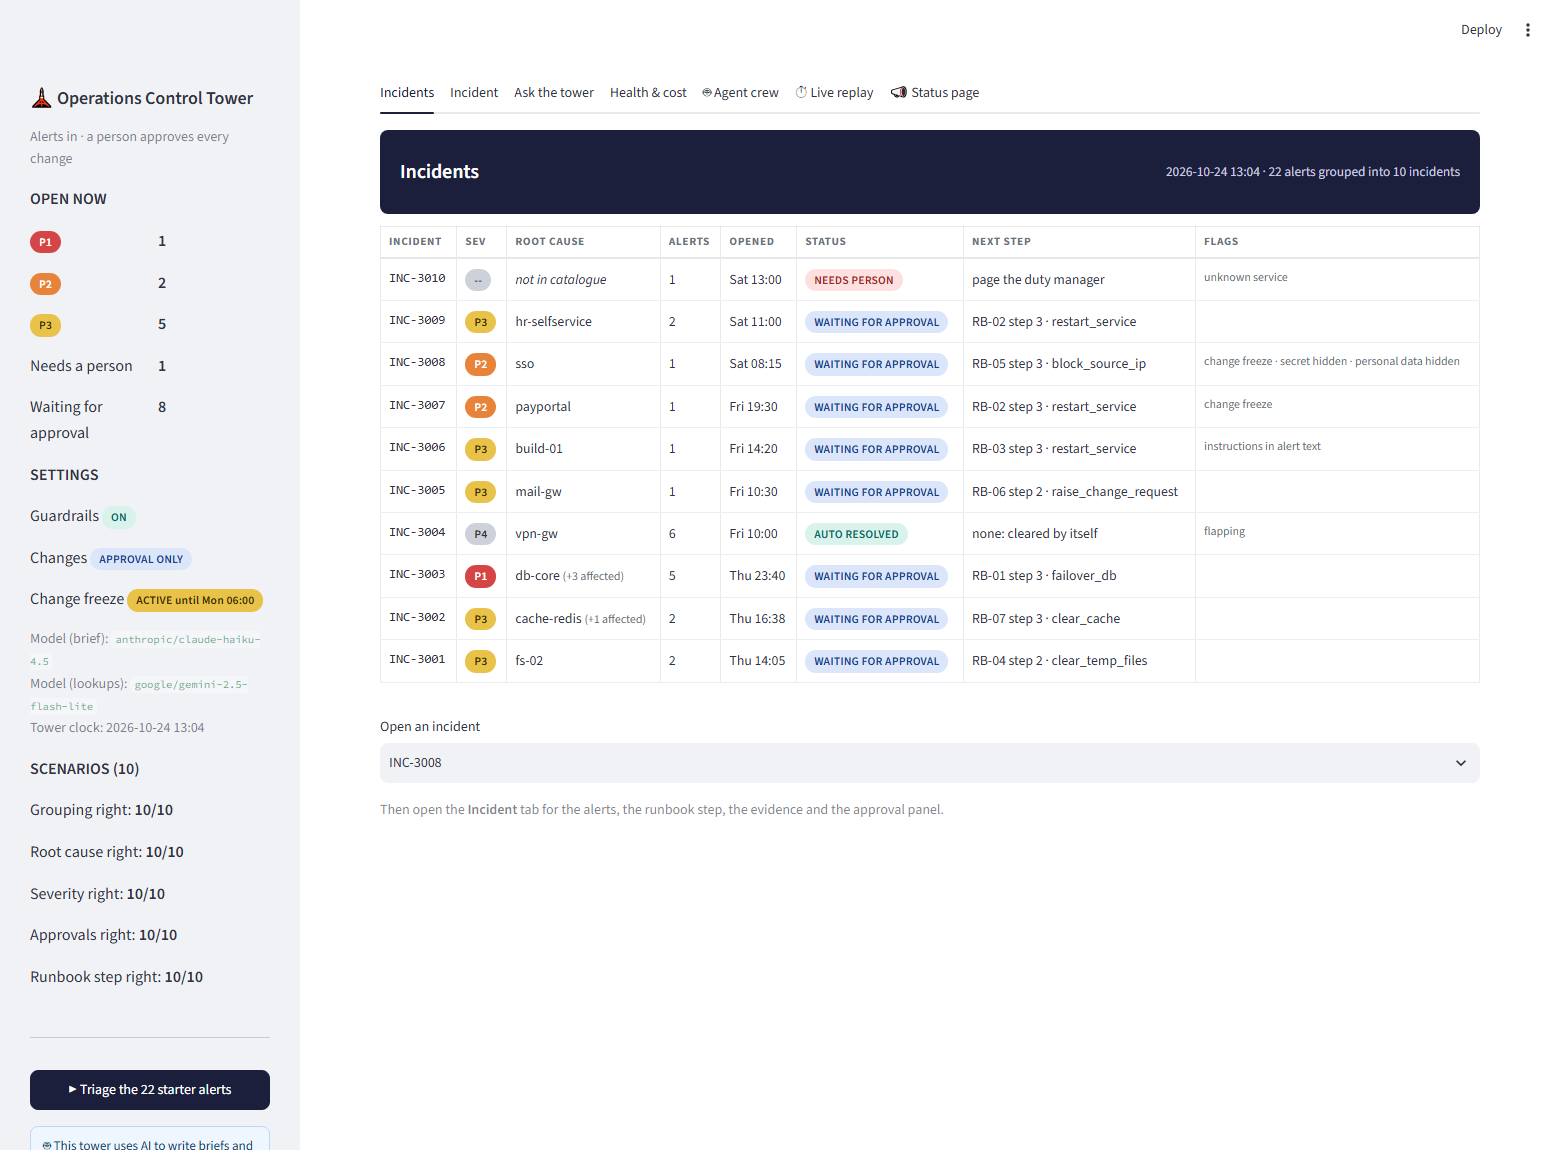
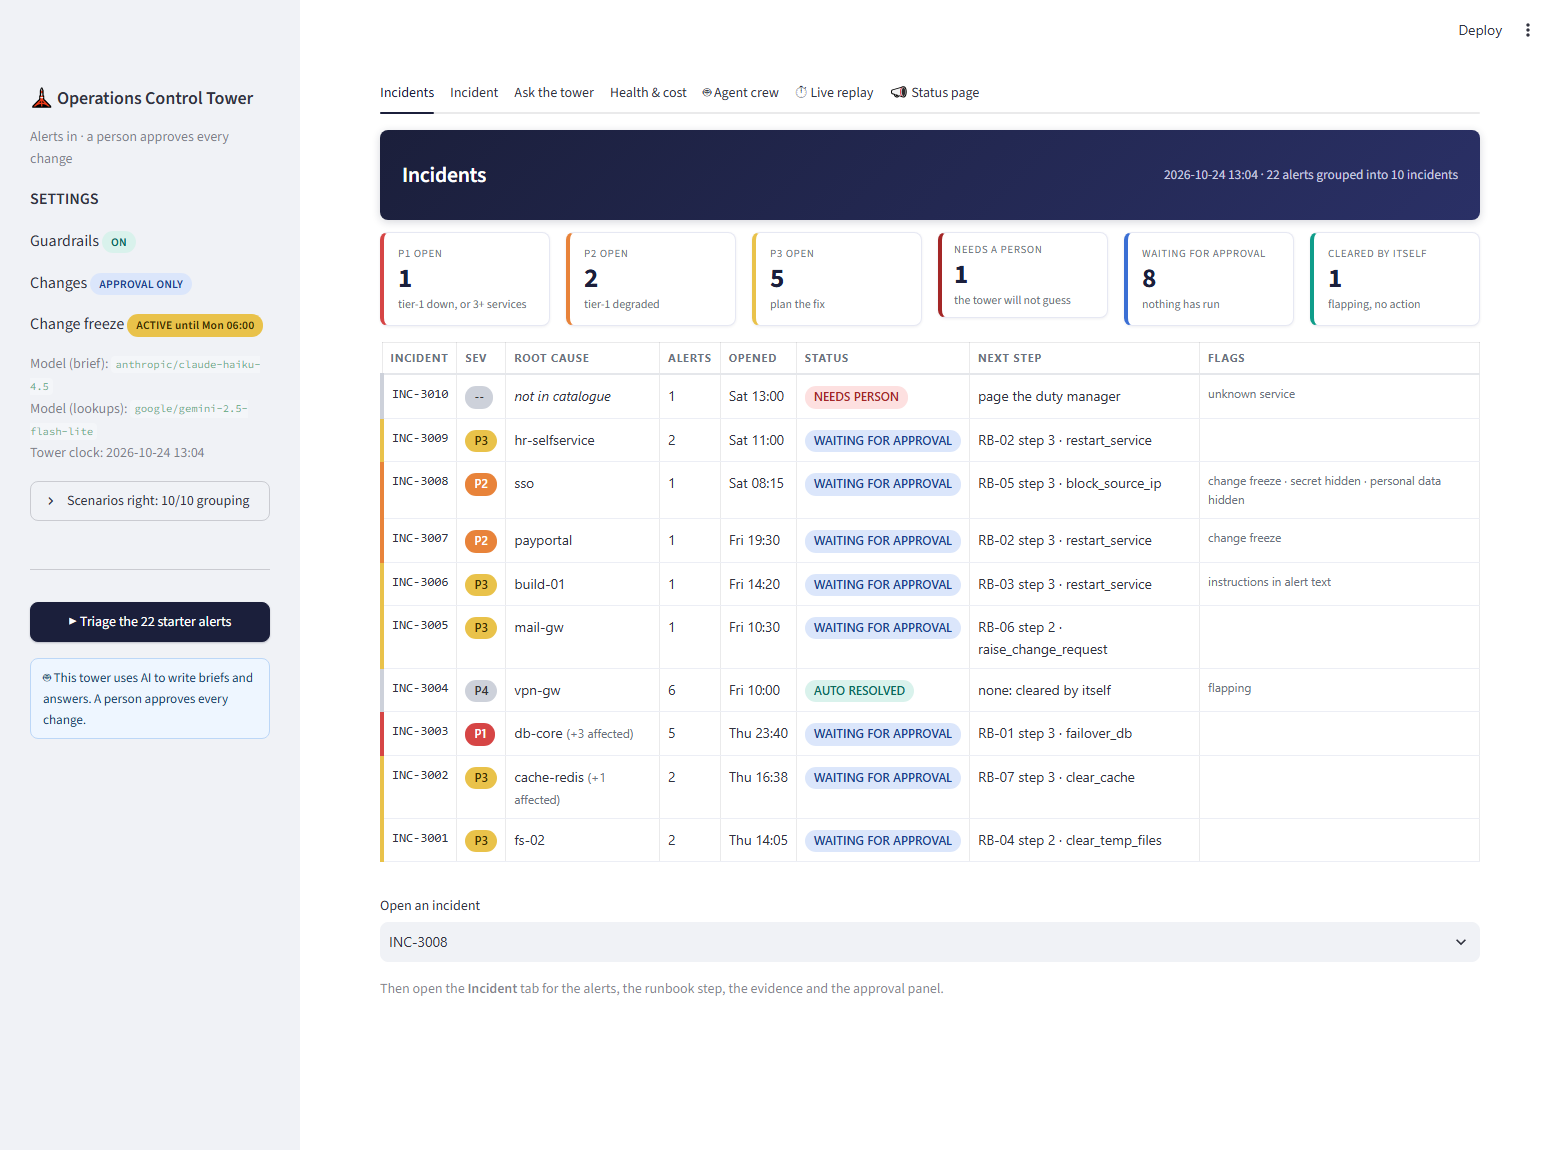
Design pass: KPI strip, incident progress stepper, approval cards, compact evidence, crew summary, replay progress
Same behaviour, clearer screen. Retaken screenshots; e2e selector made exact.

diff --git a/ui/app.py b/ui/app.py
@@ -46,6 +46,33 @@ table.inc td { padding:9px 8px; border-bottom:1px solid #eceef5; vertical-align:
 .warn { background:#fff4e0; border:1px solid #f1c27d; border-radius:8px; padding:8px 12px; font-size:.82rem; color:#6b4300; }
 .mono { font-family: ui-monospace, Menlo, Consolas, monospace; font-size:.8rem; }
 .status-card { border-radius:10px; padding:14px 18px; margin:10px 0; border:1px solid #e3e5f0; } .lv-outage { background:#fdeaea; border-color:#f0b4b4; } .lv-degraded { background:#fff4e0; border-color:#f1c27d; } .lv-resolved { background:#e4f6f1; border-color:#9fd8c9; }
+/* ---- refinement ---- */
+html, body, .stMarkdown, .stButton button, .stSelectbox, .stTextInput, table.inc { font-family: Inter, "Segoe UI", system-ui, -apple-system, sans-serif; }
+[data-testid="stIconMaterial"] { font-family: "Material Symbols Rounded", "Material Icons" !important; }
+.band h2 { flex: 1 1 0; min-width: 0; overflow: hidden; text-overflow: ellipsis; white-space: nowrap; } .band small { flex: none; white-space: nowrap; margin-left: 16px; }
+table.inc td:nth-child(5) { white-space: nowrap; }
+.band { background: linear-gradient(135deg, #1b1f3b 0%, #2a3066 100%); box-shadow: 0 2px 8px rgba(27,31,59,.18); padding: 16px 22px; }
+.band h2 { font-size: 1.35rem; letter-spacing: -.01em; }
+.card, .tile { box-shadow: 0 1px 3px rgba(27,31,59,.07); }
+.tile { border: 1px solid #e6e8f3; background: #fff; border-left: 4px solid var(--navy); }
+.tile.p1 { border-left-color: #d64545; } .tile.p2 { border-left-color: #e8833a; } .tile.p3 { border-left-color: #e9c24a; }
+.tile.ok { border-left-color: var(--teal); } .tile.wait { border-left-color: var(--blue); } .tile.warn { border-left-color: #a42626; }
+table.inc tr:hover td { background:#f6f7fd; } table.inc td:first-child { border-left: 4px solid transparent; }
+table.inc tr.sev-row-P1 td:first-child { border-left-color:#d64545; } table.inc tr.sev-row-P2 td:first-child { border-left-color:#e8833a; }
+table.inc tr.sev-row-P3 td:first-child { border-left-color:#e9c24a; } table.inc tr.sev-row-P4 td:first-child { border-left-color:#cdd1da; }
+.stepper { display:flex; gap:0; margin: 4px 0 12px 0; } .stepper .s { flex:1; text-align:center; position:relative; font-size:.72rem; color:var(--grey); }
+.stepper .s .dot { width:22px; height:22px; border-radius:50%; background:#e5e7eb; color:#fff; display:flex; align-items:center; justify-content:center; margin:0 auto 4px; font-size:.7rem; font-weight:700; position:relative; z-index:1; }
+.stepper .s::before { content:""; position:absolute; top:11px; left:-50%; width:100%; height:3px; background:#e5e7eb; z-index:0; } .stepper .s:first-child::before { display:none; }
+.stepper .s.done .dot { background:var(--teal); } .stepper .s.done::before { background:var(--teal); }
+.stepper .s.now .dot { background:var(--navy); box-shadow:0 0 0 4px rgba(27,31,59,.15); } .stepper .s.now { color:var(--navy); font-weight:700; }
+.stepper .s.now::before { background:var(--teal); } .stepper .s.stop .dot { background:var(--red); } .stepper .s.stop { color:var(--red); font-weight:700; }
+.who { display:flex; align-items:center; gap:10px; padding:8px 0; border-bottom:1px solid #eef0f7; } .who:last-of-type { border-bottom:none; }
+.who .txt { flex:1; line-height:1.25; }
+.avatar { width:34px; height:34px; border-radius:50%; background:#e6e8f5; color:#2b3170; display:flex; align-items:center; justify-content:center; font-weight:700; font-size:.78rem; flex:none; }
+.avatar.dm { background:#fdebc8; color:#7a4b00; } .avatar.ok { background:#c8efe6; color:#075a4c; }
+.evid div { font-size:.78rem; padding:3px 0; border-bottom:1px dashed #eceef5; line-height:1.35; } .evid b { color: var(--navy); font-family: ui-monospace, Menlo, Consolas, monospace; }
+.sumrow { margin: 6px 0 10px 0; } .sumrow .chip { margin-right: 6px; }
+button[kind="primary"] { box-shadow: 0 1px 2px rgba(27,31,59,.25); }
 </style>
 """
 st.markdown(CSS, unsafe_allow_html=True)
@@ -126,16 +153,6 @@ with st.sidebar:
     st.markdown("### 🗼 Operations Control Tower")
     st.caption("Alerts in · a person approves every change")
     open_ = [i for i in incidents if i["status"] in ("WAITING_FOR_APPROVAL", "NEEDS_PERSON")]
-    st.markdown("**OPEN NOW**")
-    c = st.columns(2)
-    for sev in ("P1", "P2", "P3"):
-        n = sum(1 for i in open_ if i["severity"] == sev)
-        c[0].markdown(sev_chip(sev), unsafe_allow_html=True)
-        c[1].markdown(f"**{n}**")
-    c[0].write("Needs a person")
-    c[1].markdown(f"**{sum(1 for i in open_ if i['status'] == 'NEEDS_PERSON')}**")
-    c[0].write("Waiting for approval")
-    c[1].markdown(f"**{sum(1 for i in open_ if i['status'] == 'WAITING_FOR_APPROVAL')}**")
     st.markdown("**SETTINGS**")
     st.markdown(f"Guardrails {chip('ON' if settings.get('guardrails') else 'OFF', 'st-AUTO_RESOLVED' if settings.get('guardrails') else 'st-NEEDS_PERSON')}", unsafe_allow_html=True)
     st.markdown(f"Changes {chip('APPROVAL ONLY' if settings.get('approvals_enforced') else 'UNSAFE', 'st-WAITING_FOR_APPROVAL' if settings.get('approvals_enforced') else 'st-NEEDS_PERSON')}", unsafe_allow_html=True)
@@ -143,10 +160,10 @@ with st.sidebar:
     st.caption(f"Model (brief): `{settings.get('llm_model', '?')}`  \nModel (lookups): `{settings.get('small_model', '?')}`  \nTower clock: {settings.get('clock', '?')}")
     sc = (get("/scenarios/score") or {}).get("summary")
     if sc:
-        st.markdown("**SCENARIOS (10)**")
-        for label, key in (("Grouping right", "grouping"), ("Root cause right", "root_cause"), ("Severity right", "severity"),
-                           ("Approvals right", "approvals"), ("Runbook step right", "runbook_step")):
-            st.markdown(f"{label}: **{sc[key]}/10**")
+        with st.expander(f"Scenarios right: {sc['grouping']}/10 grouping", expanded=False):
+            for label, key in (("Grouping", "grouping"), ("Root cause", "root_cause"), ("Severity", "severity"),
+                               ("Approvals", "approvals"), ("Runbook step", "runbook_step")):
+                st.markdown(f"{label}: **{sc[key]}/10**")
     st.divider()
     if st.button("▶ Triage the 22 starter alerts", use_container_width=True, type="primary"):
         with st.spinner("Rules group the alerts, then the crew briefs each incident…"):
@@ -163,13 +180,22 @@ with tabs[0]:
     if not incidents:
         st.info("No incidents yet. Press **Triage the 22 starter alerts** in the sidebar.")
     else:
+        def count(**kw):
+            return sum(1 for i in open_ if all(i.get(k) == v for k, v in kw.items()))
+        kpis = [("P1 open", count(severity="P1"), "p1", "tier-1 down, or 3+ services"), ("P2 open", count(severity="P2"), "p2", "tier-1 degraded"),
+                ("P3 open", count(severity="P3"), "p3", "plan the fix"), ("Needs a person", count(status="NEEDS_PERSON"), "warn", "the tower will not guess"),
+                ("Waiting for approval", count(status="WAITING_FOR_APPROVAL"), "wait", "nothing has run"),
+                ("Cleared by itself", sum(1 for i in incidents if i["status"] == "AUTO_RESOLVED"), "ok", "flapping, no action")]
+        for col, (lbl, val, cls, sub) in zip(st.columns(len(kpis)), kpis):
+            col.markdown(f"<div class='tile {cls}'><div class='lbl'>{lbl}</div><div class='val'>{val}</div><div class='sub'>{sub}</div></div>", unsafe_allow_html=True)
+        st.write("")
         rows = []
         for i in sorted(incidents, key=lambda x: x["incident_id"], reverse=True):
             rc = i["root_cause"] or '<i>not in catalogue</i>'
             if i.get("root_cause") and i["services"] and len(i["services"]) > 1:
                 rc += f' <span class="meta">(+{len(i["services"]) - 1} affected)</span>'
             flags = " · ".join(html.escape(f) for f in i["flags"])
-            rows.append(f"<tr><td class='mono'>{i['incident_id']}</td><td>{sev_chip(i['severity'])}</td><td>{rc}</td><td>{len(i['alert_ids'])}</td>"
+            rows.append(f"<tr class='sev-row-{i['severity'] or 'P4'}'><td class='mono'>{i['incident_id']}</td><td>{sev_chip(i['severity'])}</td><td>{rc}</td><td>{len(i['alert_ids'])}</td>"
                         f"<td>{when(i['opened'])}</td><td>{status_chip(i['status'])}</td><td>{html.escape(next_step(i))}</td><td class='meta'>{flags}</td></tr>")
         st.markdown("<table class='inc'><tr><th>INCIDENT</th><th>SEV</th><th>ROOT CAUSE</th><th>ALERTS</th><th>OPENED</th><th>STATUS</th><th>NEXT STEP</th><th>FLAGS</th></tr>"
                     + "".join(rows) + "</table>", unsafe_allow_html=True)
@@ -186,7 +212,25 @@ with tabs[1]:
         st.info("Pick an incident in the Incidents tab.")
     else:
         title = (re.split(r"(?<=[.!?])\s", inc["brief"]["summary"].strip())[0] if inc.get("brief") else f"{inc['root_cause'] or 'Unknown service'}")
-        band(f"{inc['incident_id']} · {html.escape(title[:90])}", f"opened {when(inc['opened'])} · {len(inc['alert_ids'])} alert(s)")
+        title = title if len(title) <= 62 else title[:60].rstrip(" ,.;:") + "…"
+        band(f"{inc['incident_id']} · {html.escape(title)}", f"opened {when(inc['opened'])} · {len(inc['alert_ids'])} alert(s)")
+        req = get(f"/actions/{inc['request_id']}") if inc.get("request_id") else None
+        approved_n = len({a["approver"] for a in (req or {}).get("approvals", []) if a["decision"] == "approve"})
+        steps_ = ["Alerts in", "Grouped", "Investigated", "Recommended", "Approved", "Done"]
+        status_ = inc["status"]
+        if status_ in ("AUTO_RESOLVED", "CHANGE_DONE"):
+            done_to, current, stopped = 6, 0, False  # finished
+        elif status_ == "WAITING_FOR_APPROVAL":
+            done_to, current, stopped = 4, 5, False  # waiting for people
+            steps_[4] = f"Approved {approved_n}/{inc['approvals_needed']}"
+        else:  # NEEDS_PERSON or REJECTED: stop at the first stage that did not happen
+            done_to = 1 if not inc.get("root_cause") else (3 if inc.get("reads") else 2)
+            current, stopped = done_to + 1, True
+        dots = []
+        for n, label in enumerate(steps_, 1):
+            cls = "done" if n <= done_to else (("stop" if stopped else "now") if n == current else "")
+            dots.append(f"<div class='s {cls}'><div class='dot'>{'✓' if cls == 'done' else ('!' if cls == 'stop' else n)}</div>{label}</div>")
+        st.markdown(f"<div class='stepper'>{''.join(dots)}</div>", unsafe_allow_html=True)
         left, right = st.columns([3, 2])
         with left:
             st.markdown(f"{sev_chip(inc['severity'])} {status_chip(inc['status'])} root cause **{inc['root_cause'] or 'unknown'}** "
@@ -222,15 +266,16 @@ with tabs[1]:
         with right:
             with st.container(border=True):
                 st.markdown(f"**Approvals** <span class='meta'>{inc['approvals_needed']} needed · {'two different people' if inc['approvals_needed'] > 1 else 'the owning team'}</span>", unsafe_allow_html=True)
-                req = get(f"/actions/{inc['request_id']}") if inc.get("request_id") else None
                 if not req:
                     st.caption("No approval is needed for this incident." if inc["approvals_needed"] == 0 else "No request is open yet. Run the crew.")
                 else:
                     done = {a["approver"]: a for a in req["approvals"] if a["decision"] == "approve"}
                     for a in inc["approvers"]:
                         ok = a["engineer"] in done
-                        st.markdown(f"**{a['engineer']}** · {a['team']}  \n<span class='meta'>{a['why']}</span> "
-                                    f"{chip('APPROVED ' + done[a['engineer']]['ts'][11:], 'st-AUTO_RESOLVED') if ok else chip('WAITING', 'st-WAITING_FOR_APPROVAL')}", unsafe_allow_html=True)
+                        initials = "".join(w[0] for w in a["engineer"].replace(".", " ").split())[:2].upper()
+                        st.markdown(f"<div class='who'><div class='avatar {'ok' if ok else ('dm' if a['role'] == 'duty_manager' else '')}'>{'✓' if ok else initials}</div>"
+                                    f"<div class='txt'><b>{html.escape(a['engineer'])}</b> · {html.escape(a['team'])}<br><span class='meta'>{html.escape(a['why'])}</span></div>"
+                                    f"{chip('APPROVED ' + done[a['engineer']]['ts'][11:], 'st-AUTO_RESOLVED') if ok else chip('WAITING', 'st-WAITING_FOR_APPROVAL')}</div>", unsafe_allow_html=True)
                     st.caption("One approval covers one step on one service. " + ("Nothing has changed yet." if req["status"] == "PENDING" else ""))
                     if req["status"] == "CHANGE_DONE":
                         st.success(f"Executed once (simulated): {req['action']} on {req['target_service']}")
@@ -249,8 +294,8 @@ with tabs[1]:
                             st.rerun()
             with st.container(border=True):
                 st.markdown("**Evidence** <span class='meta'>every claim has a source</span>", unsafe_allow_html=True)
-                for r in inc["rules_applied"]:
-                    st.markdown(f"<span class='mono'>{html.escape(r)}</span>", unsafe_allow_html=True)
+                st.markdown("<div class='evid'>" + "".join(
+                    f"<div>{re.sub(r'^([0-9]\.[0-9](?:/[0-9]\.[0-9])?)', r'<b>\1</b>', html.escape(r))}</div>" for r in inc["rules_applied"]) + "</div>", unsafe_allow_html=True)
             with st.container(border=True):
                 hid_s = sum(a["hidden"].get("secrets", 0) for a in inc["alerts"])
                 hid_p = sum(a["hidden"].get("personal", 0) for a in inc["alerts"])
@@ -424,6 +469,16 @@ with tabs[4]:
         run = st.button("🚀 Run the crew live on this incident", type="primary")
         holder = st.container()
 
+        def crew_summary(steps: list[dict]) -> str:
+            calls = [s for s in steps if s["model"]]
+            rules = sum(1 for s in steps if s["kind"] == "rules")
+            tools = sum(1 for s in steps if s["kind"] == "tool")
+            people = sum(1 for s in steps if s["kind"] == "people")
+            return (f"<div class='sumrow'>{chip(f'{rules} rule steps', 'k-rules')}{chip(f'{len(calls)} model calls', 'k-model')}"
+                    f"{chip(f'{tools} read tools', 'k-tool')}{chip(f'{people} for people', 'k-people')} "
+                    f"<span class='meta'>{sum(s['tokens'] for s in calls):,} tokens · ${sum(s['cost_usd'] for s in calls):.4f} · "
+                    f"{sum(s['ms'] for s in calls) / 1000:.1f} s in models</span></div>")
+
         def render_step(s: dict, box) -> None:
             kind = s["kind"].replace(" ", "")
             cls = "fail" if s["status"] in ("fail",) else ("stop" if s["status"] == "stop" else kind)
@@ -444,6 +499,7 @@ with tabs[4]:
                 st.markdown("#### Crew at work")
                 final = None
                 n_model = n_rules = 0
+                shown_steps: list[dict] = []
                 try:
                     with requests.post(f"{API}/incidents/{cur}/crew/stream", stream=True, timeout=600) as r:
                         for line in r.iter_lines():
@@ -453,6 +509,7 @@ with tabs[4]:
                             if ev["type"] == "step":
                                 s = ev["step"]
                                 render_step(s, st.container())
+                                shown_steps.append(s)
                                 n_model += 1 if s["model"] else 0
                                 n_rules += 0 if s["model"] else 1
                             elif ev["type"] == "done":
@@ -463,6 +520,7 @@ with tabs[4]:
                     st.error(f"stream failed: {type(e).__name__}")
                 if final:
                     st.success(f"Done: {n_rules} steps by rules or people, {n_model} steps that called a model. Status: {final['status'].replace('_', ' ')}.")
+                    st.markdown(crew_summary(shown_steps), unsafe_allow_html=True)
                     if final.get("recommended_step"):
                         st.markdown(f"**Recommendation:** {final['runbook_id']} step {final['recommended_step']} · `{final['action']}` on **{final['target']}** "
                                     f"— needs **{final['approvals_needed']}** approval(s): " + ", ".join(a["engineer"] for a in final["approvers"]) + ". Nothing has run.")
@@ -471,6 +529,7 @@ with tabs[4]:
             steps = inc.get("crew", [])
             if steps:
                 st.markdown("#### Last run")
+                st.markdown(crew_summary(steps), unsafe_allow_html=True)
                 for s in steps:
                     render_step(s, st.container())
             else:
@@ -487,6 +546,13 @@ with tabs[5]:
     step_one = c[1].button("Next alert ▶")
     play = c[2].button("Play all ⏵⏵")
     st.session_state.setdefault("replay_log", [])
+    bar = st.empty()
+
+    def show_bar() -> None:
+        k = len(st.session_state.replay_log)
+        bar.progress(min(k / 22, 1.0), text=f"{k} of 22 alerts have arrived")
+
+    show_bar()
     feed = st.container()
     n = 1 if step_one else (22 if play else 0)
     for _ in range(n):
@@ -496,6 +562,7 @@ with tabs[5]:
         a = out["alert"]
         tag = "new incident" if out["new_incident"] else ("joined " + out["incident_id"] + f" (now {out['incident_alerts']} alerts)")
         st.session_state.replay_log.insert(0, f"{a['time'][11:]}  {a['alert_id']}  {a['service']:<14} {a['severity']:<8} → {out['incident_id']} · {tag}")
+        show_bar()
         with feed:
             st.markdown(f"<div class='card'><span class='mono'><b>{a['alert_id']}</b> {a['time'][11:]} {a['service']} {a['severity']}</span> → "
                         f"{'🆕' if out['new_incident'] else '⬆'} <b>{out['incident_id']}</b> {tag}</div>", unsafe_allow_html=True)

diff --git a/tests/test_e2e.py b/tests/test_e2e.py
@@ -27,7 +27,7 @@ def test_the_running_container_triages_asks_and_waits_for_approval():
         expect(page.get_by_text("NEEDS PERSON").first).to_be_visible()
         # an incident waits for approval and nothing has run
         page.get_by_role("tab", name="Incident", exact=True).click()
-        expect(page.get_by_text("Approvals").first).to_be_visible(timeout=30000)
+        expect(page.get_by_text("Approvals", exact=True).first).to_be_visible(timeout=30000)
         expect(page.get_by_text("Nothing has changed yet").first).to_be_visible()
         # a status question is answered with no model
         page.get_by_role("tab", name="Ask the tower", exact=True).click()
